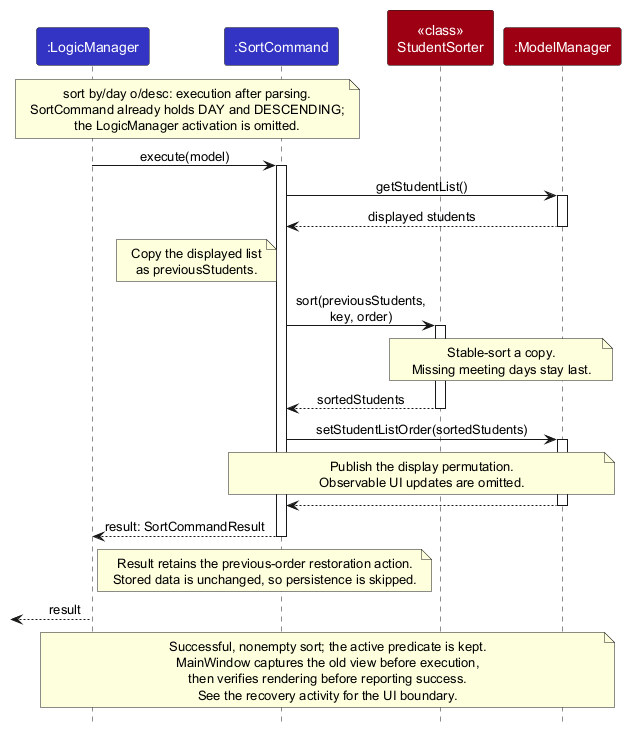
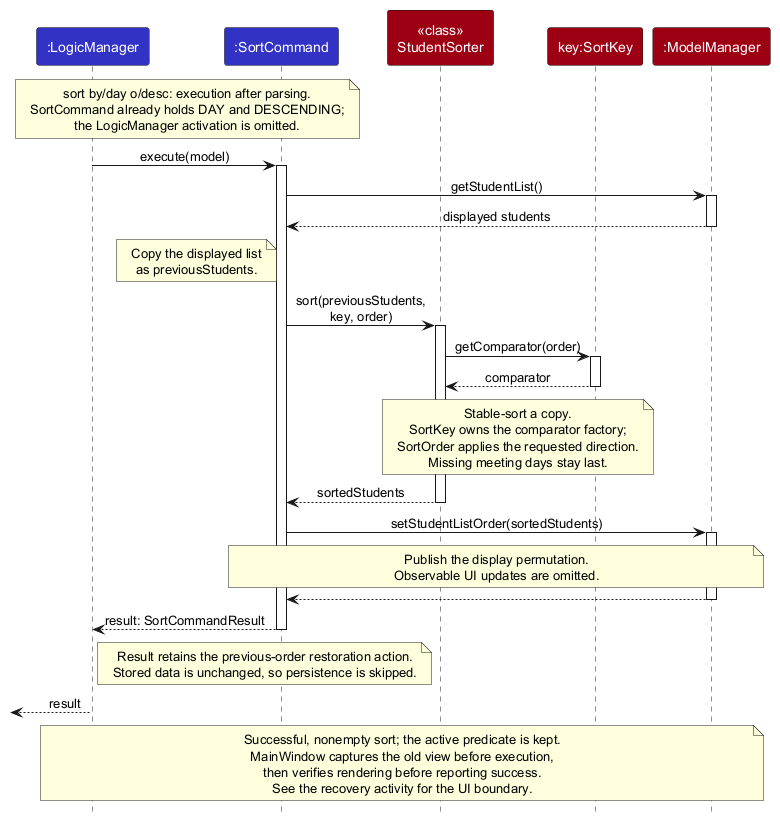
Align WK feature UML with current implementation
Update predicate binding, day filters, comparator delegation, UI relationships and lifetimes. Correct recovery decision shapes and regenerate the affected diagrams.

Refs AY2627S1-CS2103-F12-1/tp#197

diff --git a/docs/DeveloperGuide.md b/docs/DeveloperGuide.md
@@ -181,6 +181,11 @@ implementation details and the unmodifiable wrapper returned by `getStudentList(
 
 <img src="images/StudentViewClassDiagram.png" width="900" alt="Stored roster, filter predicate and transient displayed order" />
 
+`ModelManager` retains the active predicate in a `ReadOnlyObjectWrapper`; the `FilteredList` predicate is bound to
+that wrapper. The panel observes its read-only property through `Logic`, so the active-filter description can
+change even when the matching students do not. `StudentFilterPredicate` combines optional level, subject and
+meeting-day criteria with AND; the subject matches registration and the day matches any regular lesson independently.
+
 `StudentDisplayList` refers to the filtered occurrences rather than copying student records. A new search or filter
 replaces the predicate and resets the permutation; a sort changes only the permutation. Both operations leave
 the stored roster and data file unchanged. The UI and student-index commands use the displayed view.
@@ -419,7 +424,8 @@ the previous view is captured before execution and rendering is verified before 
 
 <img src="images/SortSequenceDiagram.png" width="900" alt="Compute and publish a display-only student sort" />
 
-`StudentSorter` stable-sorts a copy of the immediately preceding displayed list. Level uses the academic enum's
+`StudentSorter` stable-sorts a copy of the immediately preceding displayed list using `SortKey#getComparator(order)`.
+Each `SortKey` owns its comparator factory, and `SortOrder` applies the requested direction. Level uses the academic enum's
 school order, subject uses the alphabetically smallest subject name, and day uses the smallest weekday.
 For descending days, only the weekday comparator is reversed before applying `nullsLast`; reversing the complete
 result would incorrectly move missing meetings first and reverse ties.
@@ -493,7 +499,7 @@ sorting, edits and deletions retain the active criteria. The description wraps a
 at narrow widths. Save-failure recovery restores the exact predicate, preserving its typed criteria along with
 the previous roster and displayed order. Filter state remains in memory and is not written to the data file.
 
-The sequence below shows `filter l/S4 s/MATH` with successful rendering. Model updates notify the panel through
+The sequence below shows `filter l/S4 s/MATH d/MONDAY` with successful rendering. Model updates notify the panel through
 the observable displayed list; those callbacks and parsing details are summarized. The result requests
 `showFromTop()` after execution. An invalid command is rejected before the predicate or display order changes.
 
